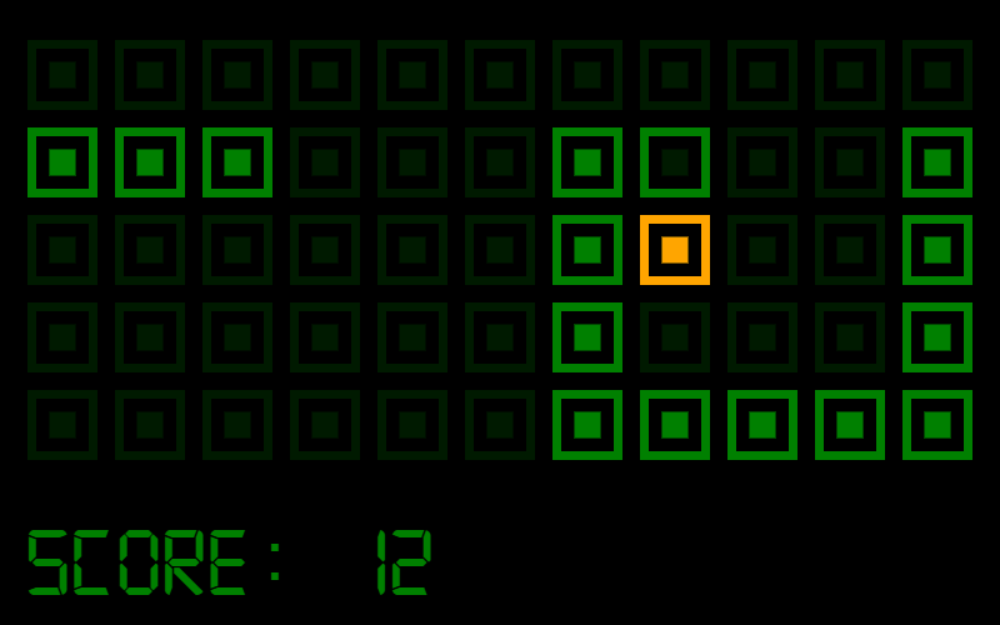
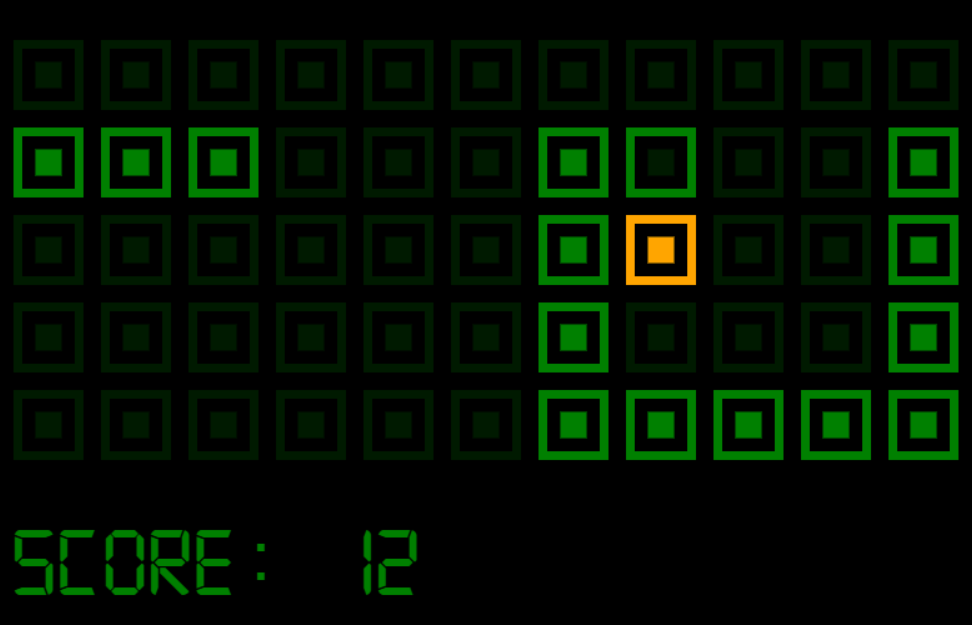
Laptop refactored

diff --git a/src/components/examples-block.js b/src/components/examples-block.js
@@ -1,7 +1,7 @@
 import React from 'react';
 import styled from 'styled-components/macro';
-import laptop from '../assets/images/laptop.png';
 import snakeScreen from '../assets/images/snake-screen.png';
+import Laptop from './Laptop';
 
 const Container = styled.div`
     position: relative;
@@ -25,41 +25,14 @@ const Slider = styled.div`
     padding: 70px 0 0 0;
 `;
 
-const Content = styled.div`
-    position: absolute;
-
-    z-index: -10;
-`;
-
-const FrameImage = styled.img`
-width: 100%
-`;
-
-const ScreenImage = styled.img`
-position: absolute;
-
-top: 7%;
-left: 17%;
-
-width: 65.5%;
-height: 77.5%;
-`;
-
-const Wrapper = styled.div`
-    max-width: 80%;
-    max-height: 80%;
-    position: relative;
-`;
-
 const ExamplesBlock = () => (
-        <Container>
-            <Slider>
-                <Wrapper>
-                    <FrameImage src={laptop} alt="frame" />
-                    <ScreenImage src={snakeScreen} alt="snake screen" />
-                </Wrapper>
-            </Slider>
-        </Container>
-    );
+    <Container>
+        <Slider>
+            <Laptop maxWidth={80} maxHeight={70}>
+                <img src={snakeScreen} width="100%" alt="snake screen" />
+            </Laptop>
+        </Slider>
+    </Container>
+);
 
 export default ExamplesBlock;

diff --git a/src/components/Laptop.js b/src/components/Laptop.js
@@ -1,0 +1,25 @@
+import React from 'react';
+import ConstAspectRatio from './const-aspect-ratio';
+import laptop from '../assets/images/laptop.png';
+import styled from 'styled-components/macro';
+
+const ScreenFrame = styled.img`
+    width: 100%;
+`;
+
+const ScreenContent = styled.div`
+    position: absolute;
+    top: 6.8%;
+    right: 17.4%;
+    bottom: 15.8%;
+    left: 17.02%;
+    z-index: -5;
+`;
+const Laptop = ({ maxWidth, maxHeight, children }) => (
+    <ConstAspectRatio ratio={24 / 13} maxWidth={maxWidth} maxHeight={maxHeight}>
+        <ScreenFrame src={laptop} alt="frame" />
+        <ScreenContent children={children} />
+    </ConstAspectRatio>
+);
+
+export default Laptop;

diff --git a/src/components/const-aspect-ratio.js b/src/components/const-aspect-ratio.js
@@ -1,0 +1,17 @@
+import React from 'react';
+import styled from 'styled-components/macro';
+
+const Wrapper = styled.div`
+    position: relative;
+
+    width: ${props => props.maxWidth}vw;
+    max-width: ${props => props.maxHeight * props.ratio}vh;
+    height: ${props => props.maxWidth / props.ratio}vw;
+    max-height: ${props => props.maxHeight}vh;
+`;
+
+const ConstAspectRatio = ({ ratio = 1, maxWidth = 100, maxHeight = 100, ...props }) => (
+    <Wrapper ratio={ratio} maxWidth={maxWidth} maxHeight={maxHeight} {...props} />
+);
+
+export default ConstAspectRatio;
